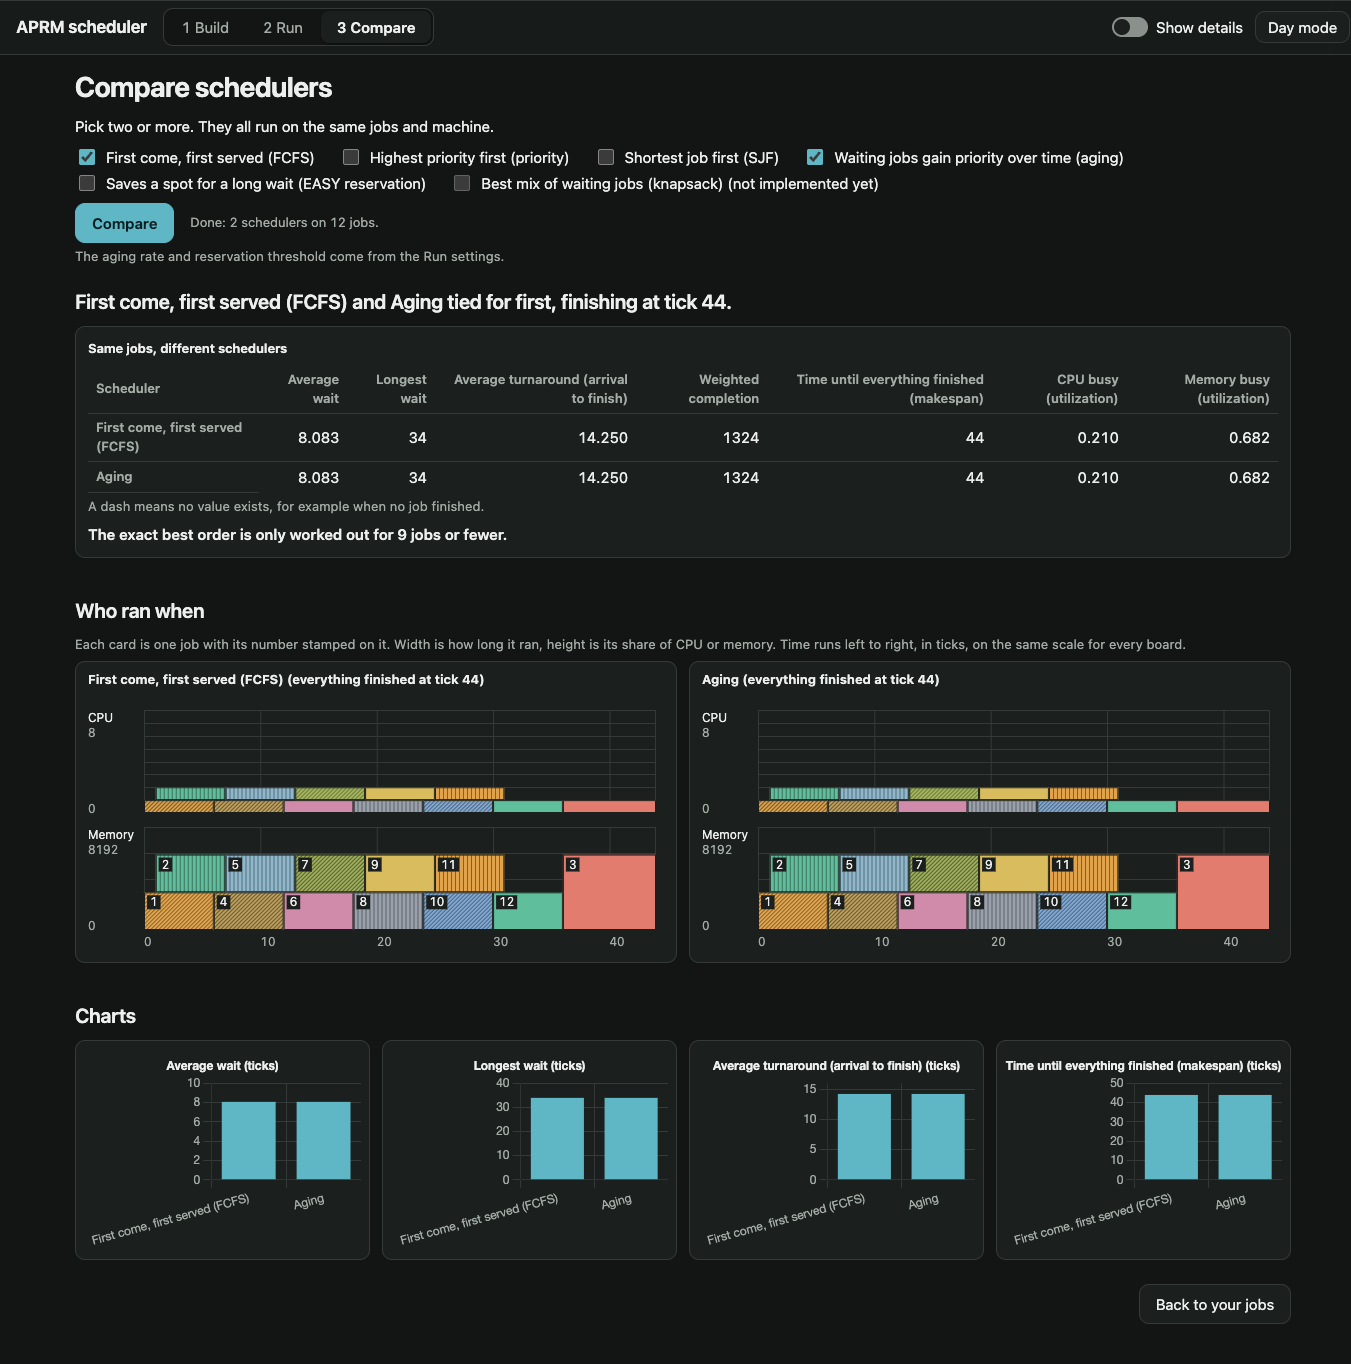
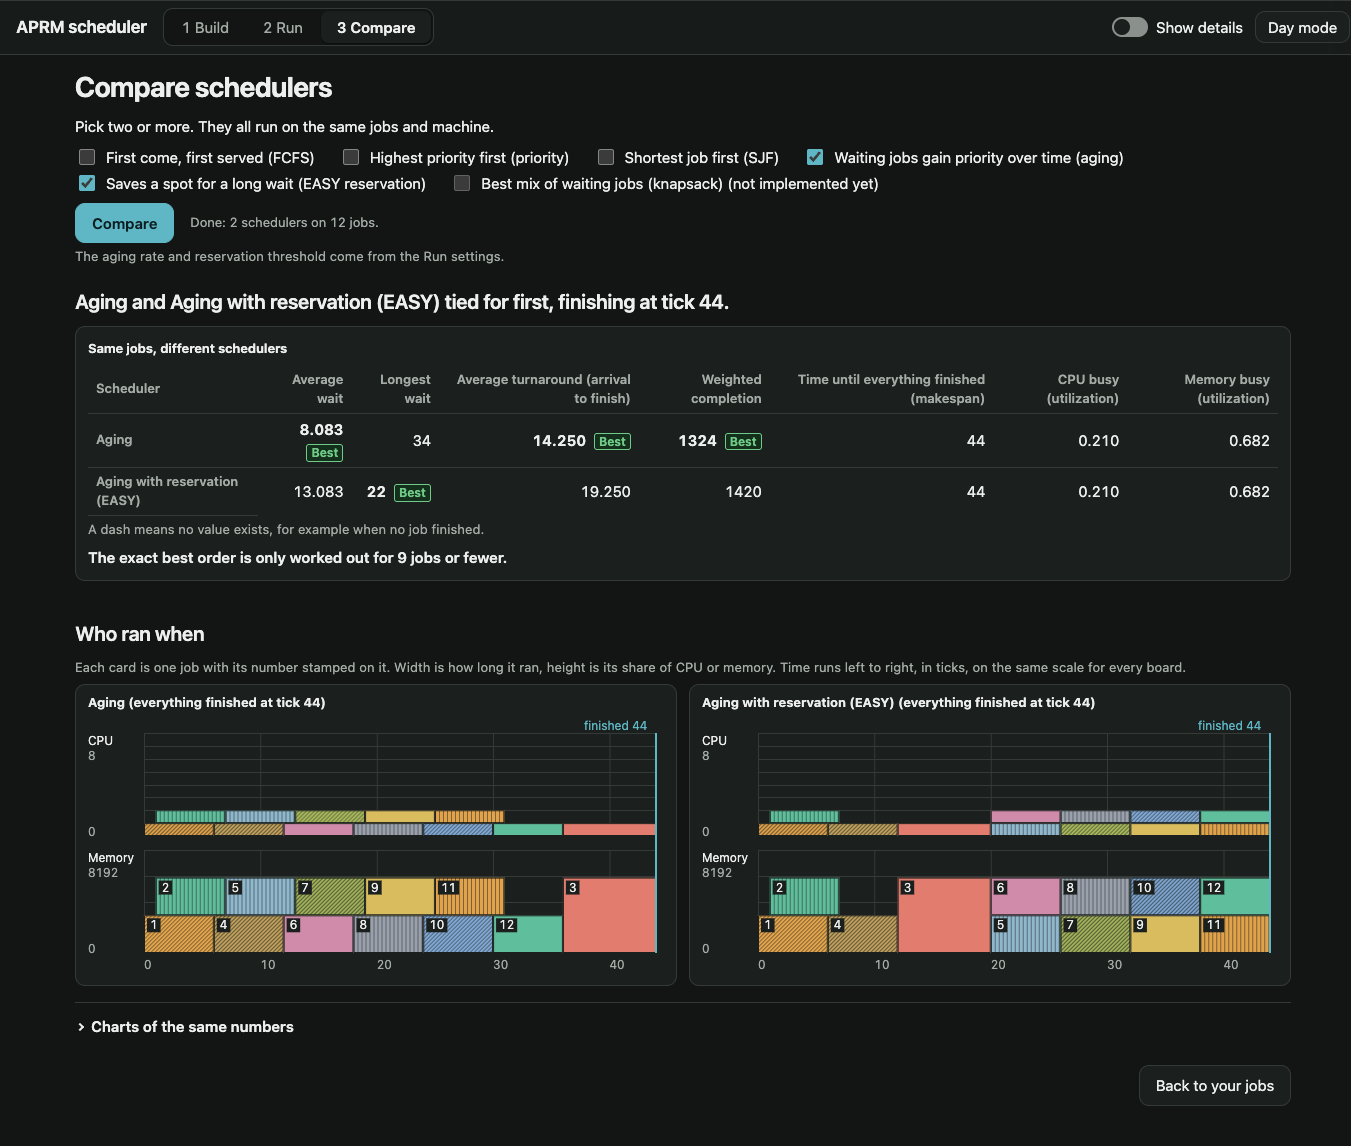
Compare: phone table keeps its labels, charts folded away, Best stamps, finish rail

diff --git a/web/js/compare.js b/web/js/compare.js
@@ -432,6 +432,7 @@
       for (var k = 0; k < METRIC_COLUMNS.length; k++) {
         var v = col.metrics[METRIC_COLUMNS[k][0]];
         var td = cell('td', metricText(v), (v === null || v === undefined) ? 'na' : '');
+        td.setAttribute('data-label', words('metric.' + METRIC_COLUMNS[k][0], METRIC_COLUMNS[k][1]));
         if (isBest(METRIC_COLUMNS[k][0], v)) {
           td.setAttribute('data-best', words('compare.best', 'Best'));
           td.setAttribute('class', (td.getAttribute('class') ? td.getAttribute('class') + ' ' : '') + 'best');
@@ -457,11 +458,11 @@
 
   /* One finished board, in the same form as the Run page: the engine's start and finish times, on the
    * time scale shared by every board, so the pictures can be compared by eye. Returns false with no canvas. */
-  function drawTimeline(canvas, jobs, rows, tmax) {
+  function drawTimeline(canvas, jobs, rows, tmax, finished) {
     var bars = {};
     for (var i = 0; i < rows.length; i++) { bars[rows[i].id] = { start: rows[i].start, finish: rows[i].finish }; }
     var st = { now: tmax, cap: model.cap, free: model.cap, waiting: [], running: [], reservation: null, done: rows.length, total: jobs.length };
-    return APRM.canvas.draw(canvas, { state: st, jobs: jobs, bars: bars, selected: null, events: 0, hideNow: true, tmax: tmax }, BOARD_HEIGHT);
+    return APRM.canvas.draw(canvas, { state: st, jobs: jobs, bars: bars, selected: null, events: 0, hideNow: true, endMark: finished, tmax: tmax }, BOARD_HEIGHT);
   }
 
   function drawTimelines() {
@@ -482,10 +483,10 @@
       fig.appendChild(cap);
       fig.appendChild(cv);
       box.appendChild(fig);
-      boards.push({ cv: cv, rows: col.rows });
+      boards.push({ cv: cv, rows: col.rows, finished: col.metrics.makespan });
     }
     /* Draw after every board is in the page: each one's width depends on how many share the row. */
-    for (var b = 0; b < boards.length; b++) { drawTimeline(boards[b].cv, model.jobs, boards[b].rows, model.tmax); }
+    for (var b = 0; b < boards.length; b++) { drawTimeline(boards[b].cv, model.jobs, boards[b].rows, model.tmax, boards[b].finished); }
   }
 
   /* Bar charts, only if Chart.js loaded. Any failure falls back to the table. */
@@ -508,7 +509,7 @@
     }
     var col = themeColours();
     try {
-      var labels = model.columns.map(function (c) { return labelOf(c.policy); });
+      var labels = model.columns.map(function (c) { return labelOf(c.policy).split(' ('); });   /* two short lines, never slanted */
       for (var m = 0; m < CHART_METRICS.length; m++) {
         var key = CHART_METRICS[m];
         var title = '';
@@ -528,7 +529,7 @@
             animation: false, responsive: true, maintainAspectRatio: false, color: col.text,
             plugins: { legend: { display: false }, title: { display: true, text: title + ' (ticks)', color: col.text } },
             scales: {
-              x: { ticks: { color: col.muted }, grid: { color: col.border } },
+              x: { ticks: { color: col.muted, maxRotation: 0, minRotation: 0, autoSkip: false }, grid: { color: col.border } },
               y: { beginAtZero: true, ticks: { color: col.muted }, grid: { color: col.border } }
             }
           }

diff --git a/web/css/components.css b/web/css/components.css
@@ -184,8 +184,17 @@ html[data-details="off"] .detail-only { display: none; }
 .compare-results { margin-top: var(--s-2); max-height: none; overflow: visible; }
 .scroll-x { overflow-x: auto; }
 .exact-line { margin: var(--s-2) 0 0; font-weight: 600; }
-td.best { font-weight: 650; color: var(--accent); }
-td.best::after { content: " " attr(data-best); font-size: var(--fs-caption); font-weight: 600; letter-spacing: var(--ls-caption); }
+td.best { font-weight: 650; }
+td.best::after { content: attr(data-best); display: inline-block; margin-left: var(--s-2); font-size: 0.75rem; line-height: 1.3; font-weight: 650; padding: 0 var(--s-1); border: 1px solid var(--green); border-radius: 3px; color: var(--green); background: var(--ok-bg); }
+.compare-more { margin-top: var(--s-6); }
+.compare-more .compare-charts { margin-top: var(--s-2); }
+@media (max-width: 45rem) {
+  .job-table.compare-table tbody tr { display: block; padding: var(--s-2) 0; }
+  .job-table.compare-table tbody th { display: block; padding: 0 0 var(--s-1); border: 0; font-size: var(--fs-body); color: var(--text); }
+  .job-table.compare-table td { display: flex; justify-content: space-between; gap: var(--s-3); text-align: right; padding: 2px 0; }
+  .job-table.compare-table td::before { content: attr(data-label); color: var(--muted); font-size: var(--fs-caption); text-align: left; margin: 0; }
+  .job-table.compare-table td.best { flex-wrap: wrap; }
+}
 .job-table.compare-table td, .job-table.compare-table thead th + th { text-align: right; }
 .compare-fig { background: var(--surface); border: 1px solid var(--border); border-radius: var(--r-2); padding: var(--s-2) var(--s-3); min-width: 0; }
 .compare-fig figcaption { font-size: var(--fs-caption); font-weight: 650; margin-bottom: var(--s-1); }

diff --git a/web/js/canvas.js b/web/js/canvas.js
@@ -222,7 +222,15 @@
     /* the time axis, and the teal "now" rail across both lanes */
     var first = lay.lanes[0], last = lay.lanes[1];
     for (var v = 0; v <= lay.tmax; v += lay.step) { text(String(v), Math.min(lay.sx(v), cssW - 30), lay.axisY, 40, col.muted); }
-    if (view.hideNow) { return true; }                 /* a finished board in Compare has no "now" */
+    if (view.hideNow) {                                /* a finished board has no "now": mark where it ended */
+      if (typeof view.endMark === 'number') {
+        var endX = lay.sx(view.endMark);
+        ctx.strokeStyle = col.accent; ctx.lineWidth = 2;
+        ctx.beginPath(); ctx.moveTo(endX, first.y); ctx.lineTo(endX, last.y + last.h); ctx.stroke();
+        text('finished ' + view.endMark, Math.max(lay.lanes[0].x, Math.min(endX - 62, cssW - 80)), first.y - 3, 80, col.accent);
+      }
+      return true;
+    }
     ctx.strokeStyle = col.accent; ctx.lineWidth = 2;
     ctx.beginPath(); ctx.moveTo(lay.nowX, first.y); ctx.lineTo(lay.nowX, last.y + last.h); ctx.stroke();
     text('now ' + view.state.now, Math.min(lay.nowX + 4, cssW - 60), first.y - 3, 70, col.accent);

diff --git a/web/index.html b/web/index.html
@@ -252,9 +252,11 @@
     <h3 data-copy="compare.timelines">Who ran when</h3>
     <p class="hint" data-copy="compare.key"></p>
     <div id="compare-timelines" class="compare-timelines"></div>
-    <h3 data-copy="compare.charts">Charts</h3>
-    <p id="compare-chart-note" class="empty" role="status" hidden></p>
-    <div id="compare-charts" class="compare-charts"></div>
+    <details class="disclosure compare-more">
+      <summary data-copy="compare.charts">Charts of the same numbers</summary>
+      <p id="compare-chart-note" class="empty" role="status" hidden></p>
+      <div id="compare-charts" class="compare-charts"></div>
+    </details>
     <p class="next-row"><button type="button" class="btn" data-next="build" data-copy="next.compare">Back to your jobs</button></p>
   </section>
 

diff --git a/web/js/copy.js b/web/js/copy.js
@@ -185,7 +185,7 @@
     'compare.key': 'Each card is one job with its number stamped on it. Width is how long it ran, height is its share of CPU or memory. Time runs left to right, in ticks, on the same scale for every board.',
     'compare.timeline.cap': '{name} (everything finished at tick {t})',
     'compare.timeline.aria': 'Timeline of every job under {name}',
-    'compare.charts': 'Charts',
+    'compare.charts': 'Charts of the same numbers',
     'compare.chart.loading': 'Charts are still loading. The table above has the numbers; the charts appear when they arrive.',
     'compare.chart.failed': 'Charts could not load, so here are the numbers instead.',
     'compare.chart.error': 'Charts could not be drawn ({why}). The table above has the same numbers.',
